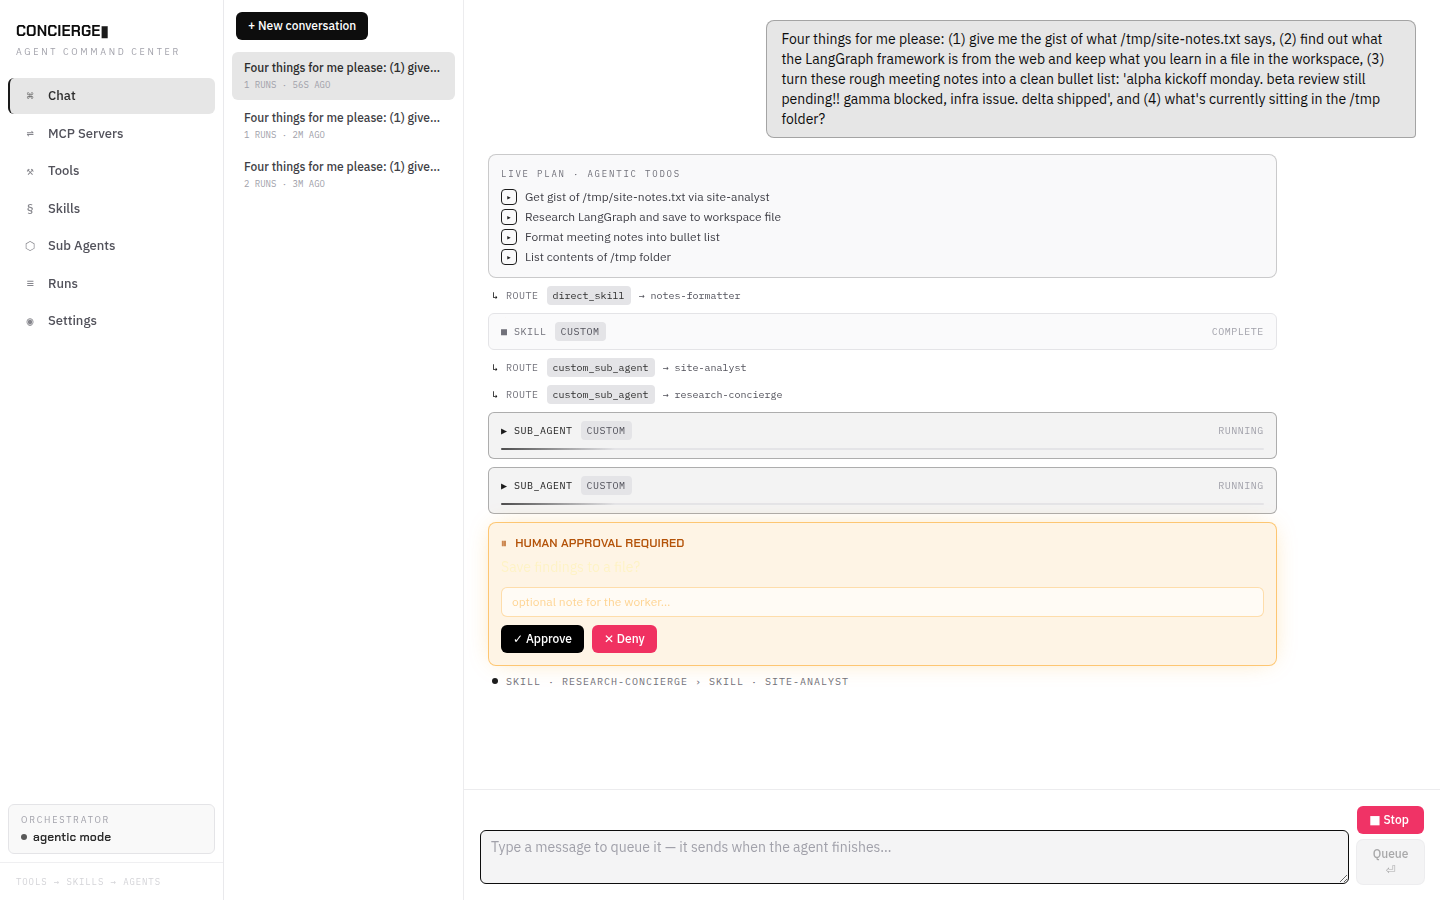
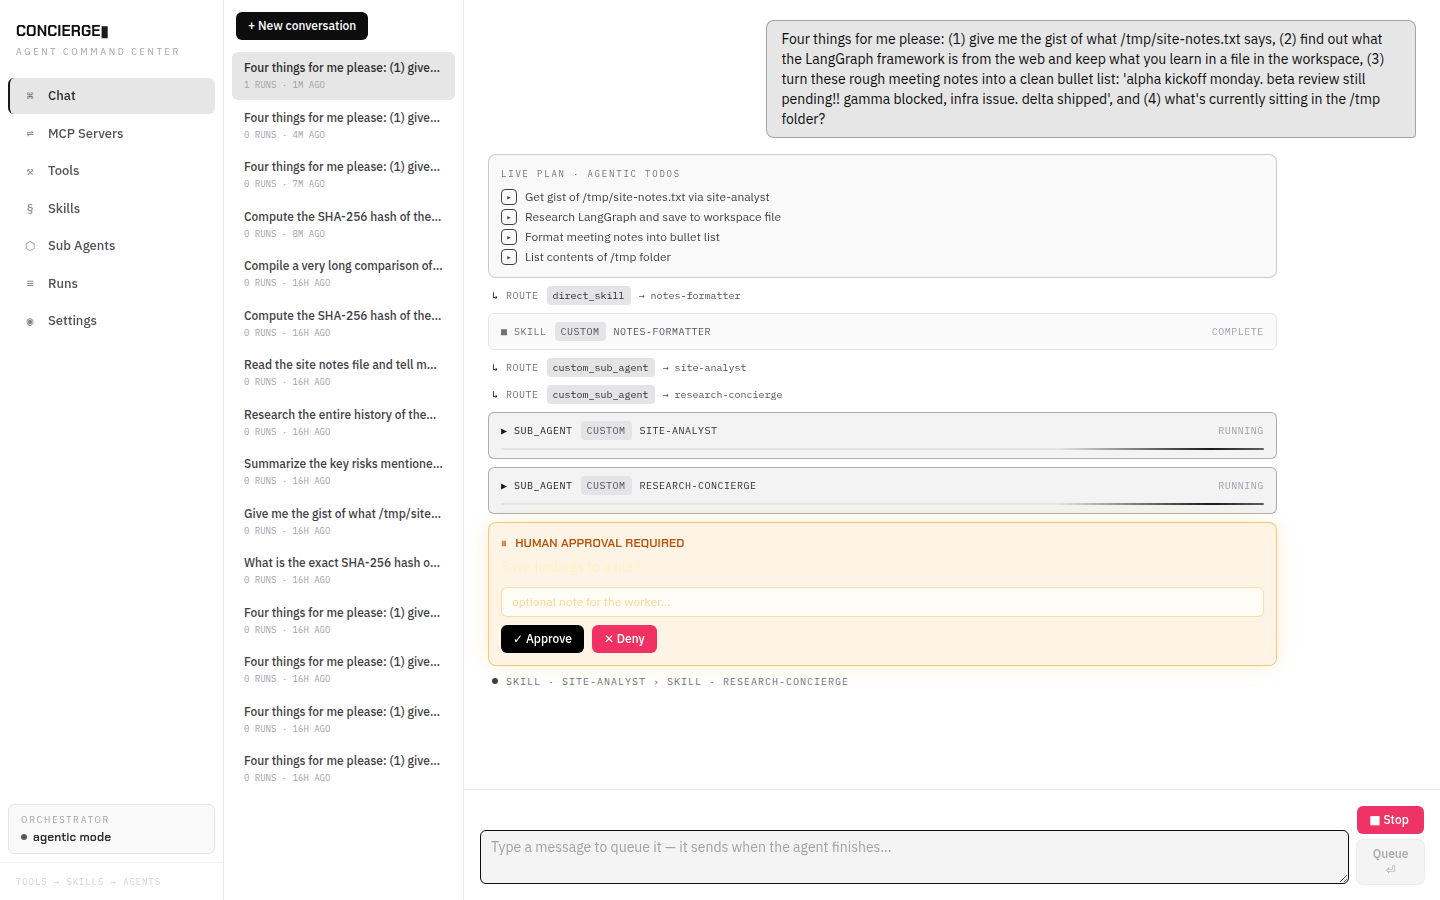
docs(acceptance): refresh two screenshots after chat presentation fixes
Manually reproduced both scenarios through the UI on the fixed build:
the agentic gate shot now shows named dispatch rails for every tier,
and the retried-run conversation shows the failed run's error bubble
interleaved plus the captioned answer panel. Report notes the refresh.

Claude-Session: https://claude.ai/code/session_01HZp9NtKPxvkd279oJnFx37

diff --git a/docs/acceptance/README.md b/docs/acceptance/README.md
@@ -75,6 +75,22 @@ Same registries, same ladder policy, same recording labels; different orchestrat
 5. `summarize-and-structure` structured output occasionally failed schema validation (non-array fields) → one planner-style repair retry (`2d8559e`).
 6. Theme polish surfaced by evidence review: the toggle knob rode the button's default padding and drifted outside its track (invisible white-on-white in light themes), and the a2ui answer cards stayed dark on light themes because the global `color-scheme: dark` forced their `light-dark()` styling — fixed with an explicit knob anchor + visibility ring and per-theme `color-scheme` (`4c66119`); this evidence set is captured on the fixed build.
 
+## Post-campaign refresh (user-directed)
+
+Two screenshots were re-captured manually through the UI on build `d9bbe98`
+after chat-presentation review; the rest of the set is the original single
+pass:
+
+- `08-trial-agentic-thinking-on/05-t3-hitl-gate-1.png` — dispatch rails now
+  show the running entity's NAME on every tier (`SUB_AGENT · CUSTOM ·
+  site-analyst`, `SKILL · CUSTOM · notes-formatter`), from the same
+  reproduced scenario (agentic + thinking on, BIG prompt, first gate).
+- `13-failure-retry-cancel/11-retried-run-conversation-bottom.png` — reloaded
+  history now interleaves correctly: the failed run shows its ✕ error bubble
+  (matching the live view) between the original prompt and the retry, and the
+  A2UI panel is captioned "answer panel · structured view" so it reads as a
+  companion to the text answer rather than a duplicate response.
+
 ## Observations
 
 - Spec §14 step 7 was amended (`e9cac23`) to match §7.2: a no-confident-match engages the full-catalog fallback rather than force-spinning a worker (unexposed skills are invisible to the planner by design); rung-4 dynamic workers stay reachable via `spin_worker` and covered per-rung by the API test suite.
